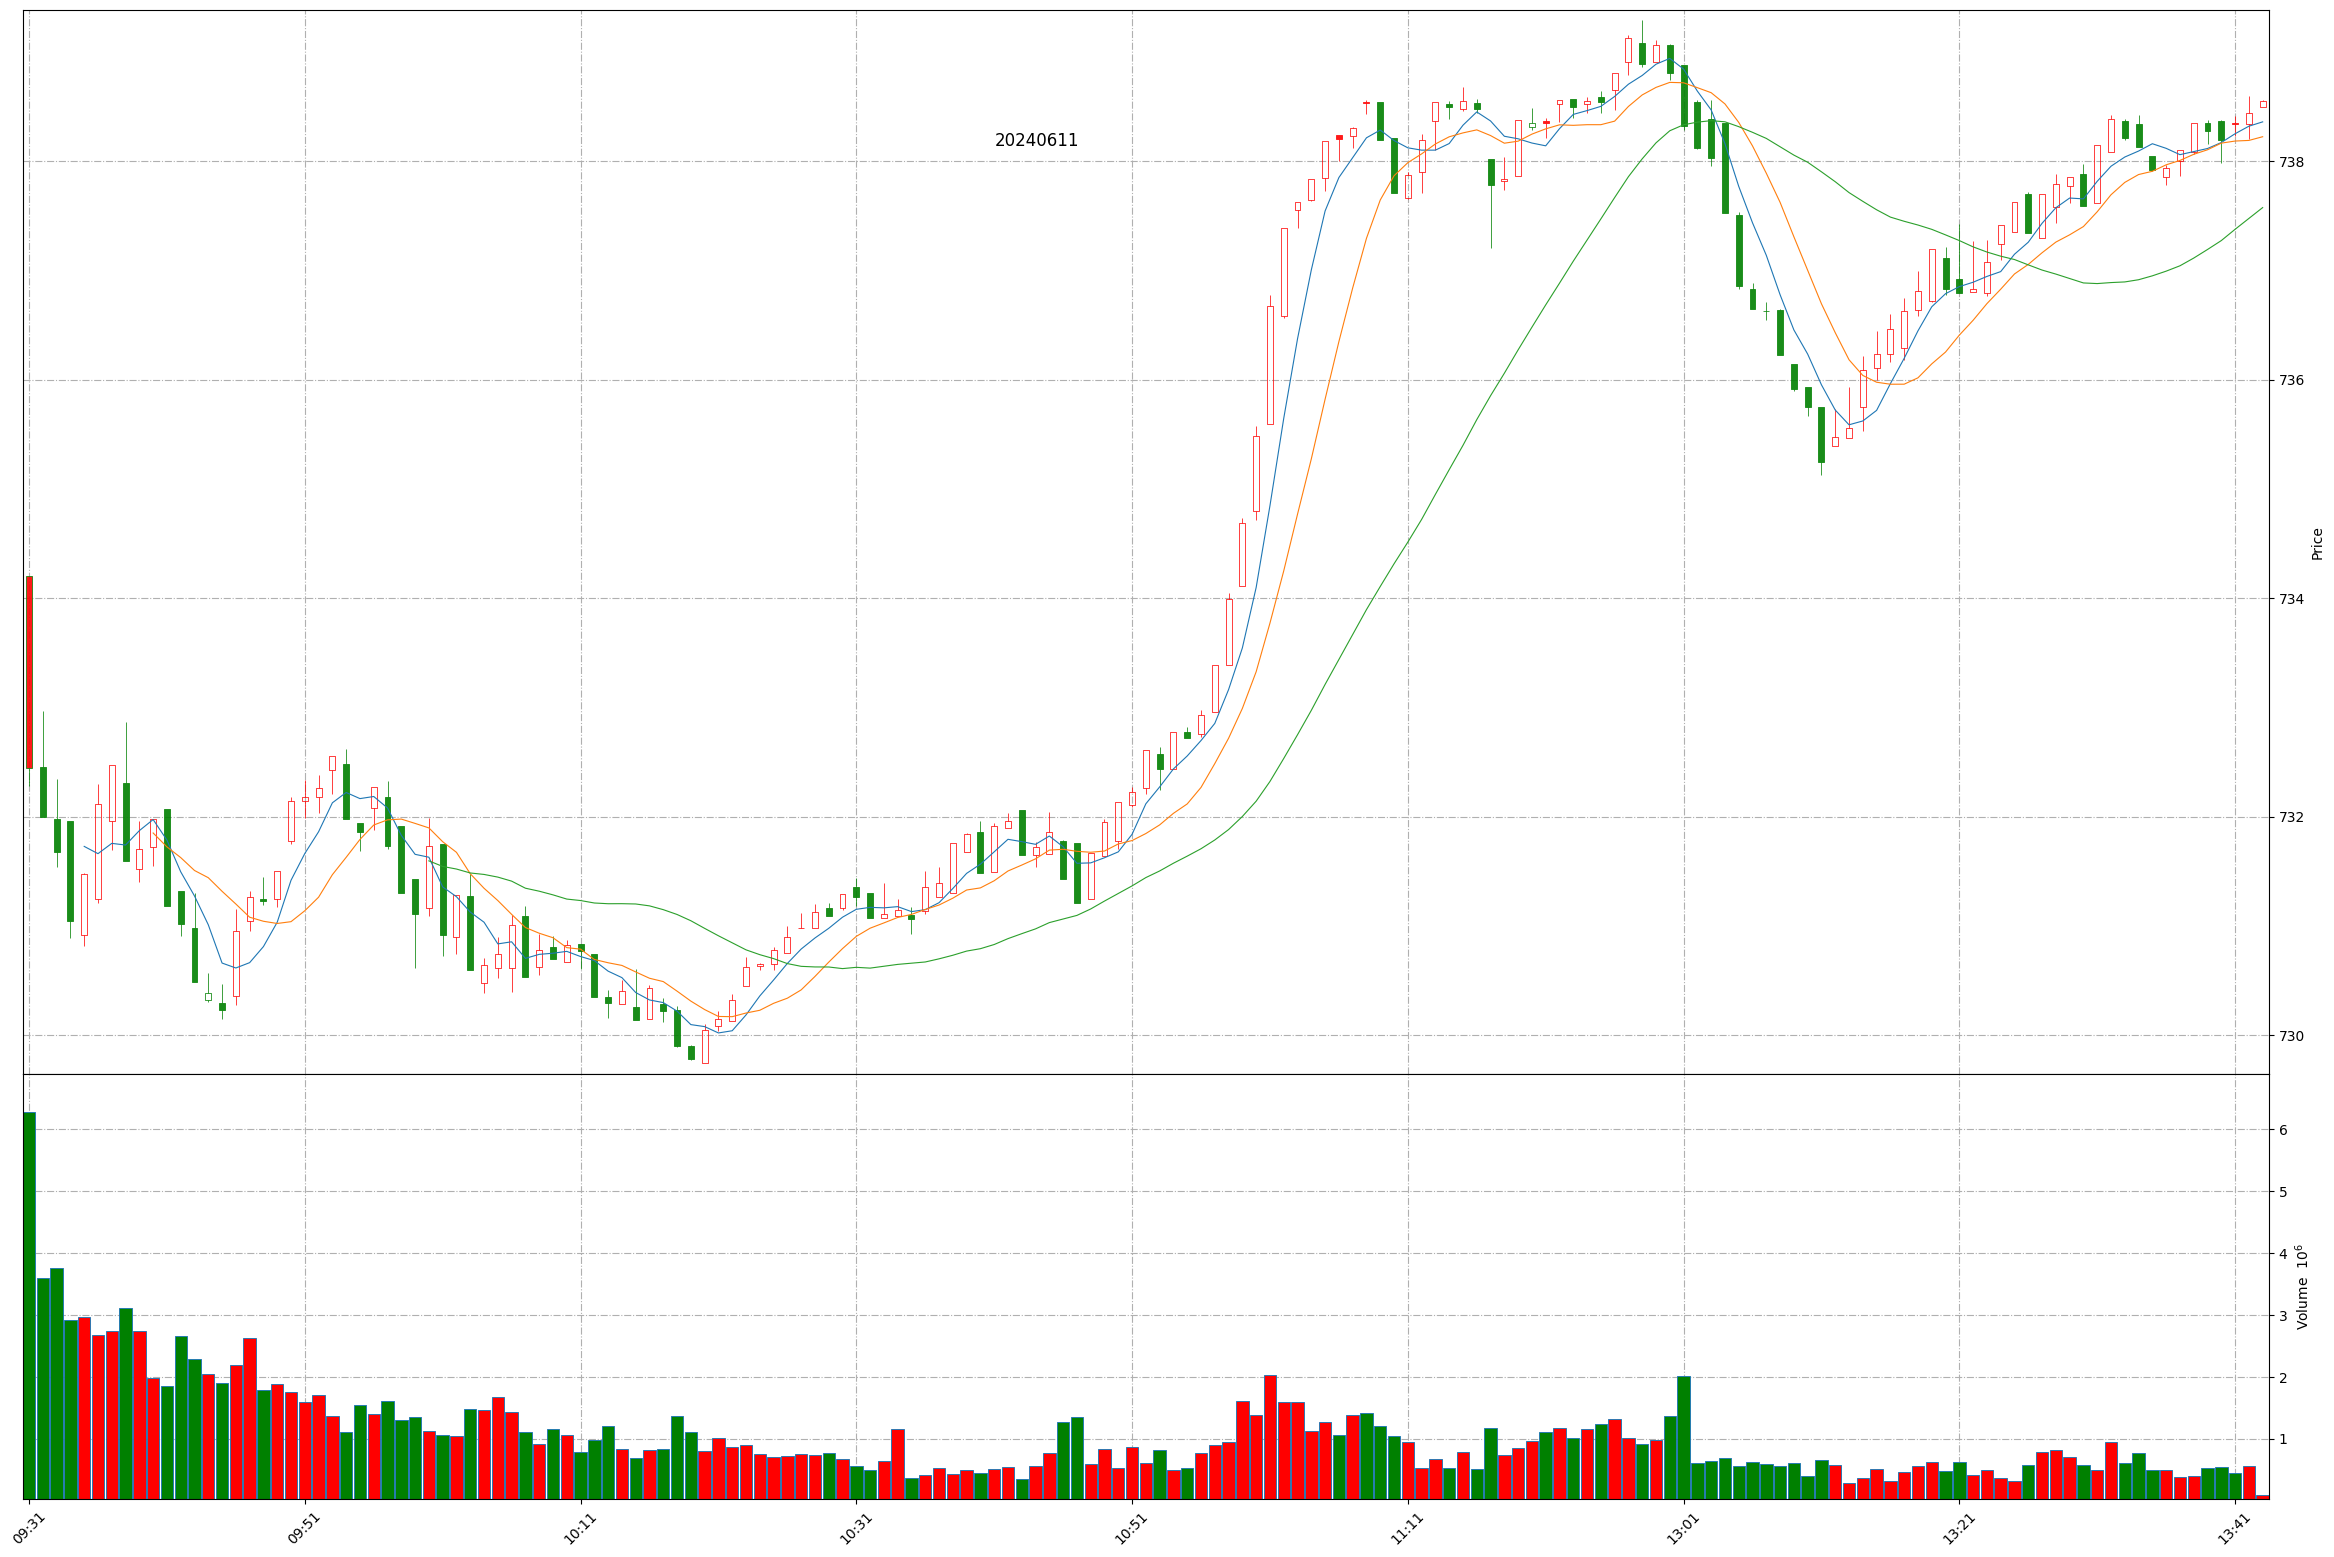
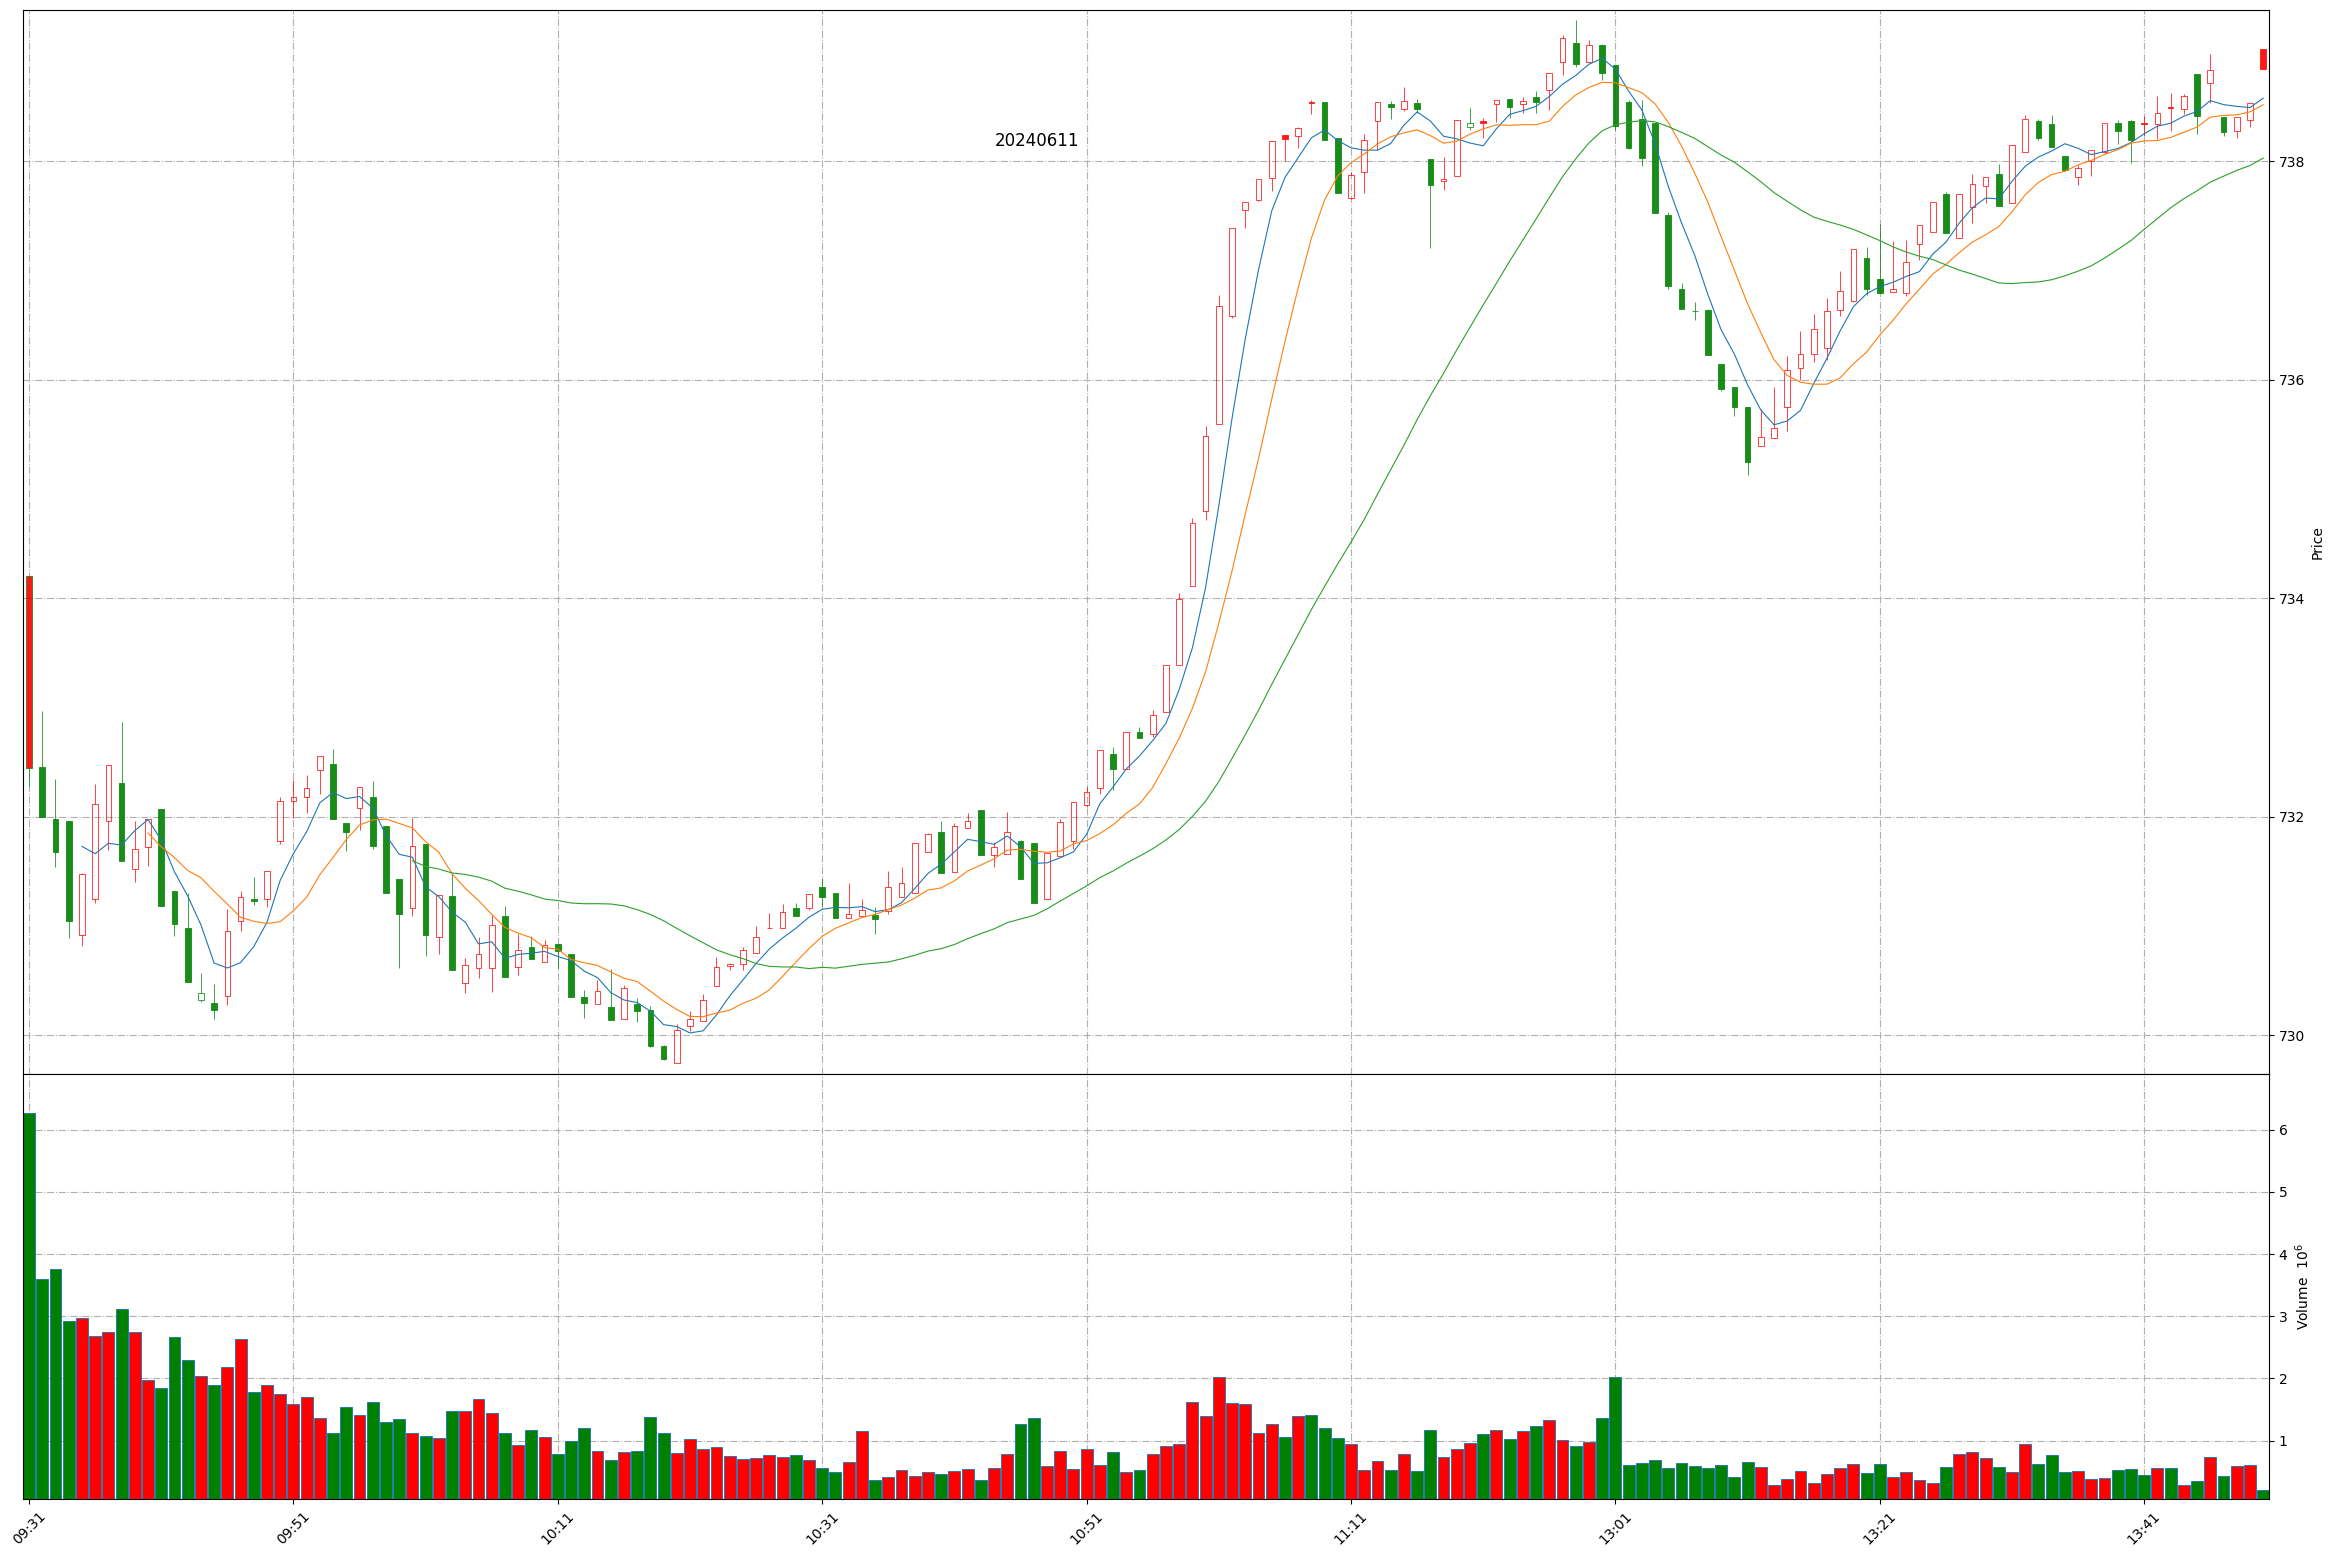
Github action update at 2024-06-11 13:49:40.

diff --git a/README.md b/README.md
@@ -1,11 +1,11 @@
 
 # Daily-A-share-market-quotes 每日 A 股指数（5min 更新）- 20240611
 
-### 上证指数 20240611 13:42
+### 上证指数 20240611 13:49
 ![](./fig/2024/6/20240611-sh000001.png)
 
-### 深证成指 20240611 13:42
+### 深证成指 20240611 13:49
 ![](./fig/2024/6/20240611-sz399001.png)
 
-### 北证50 20240611 13:42
+### 北证50 20240611 13:49
 ![](./fig/2024/6/20240611-bj899050.png)
